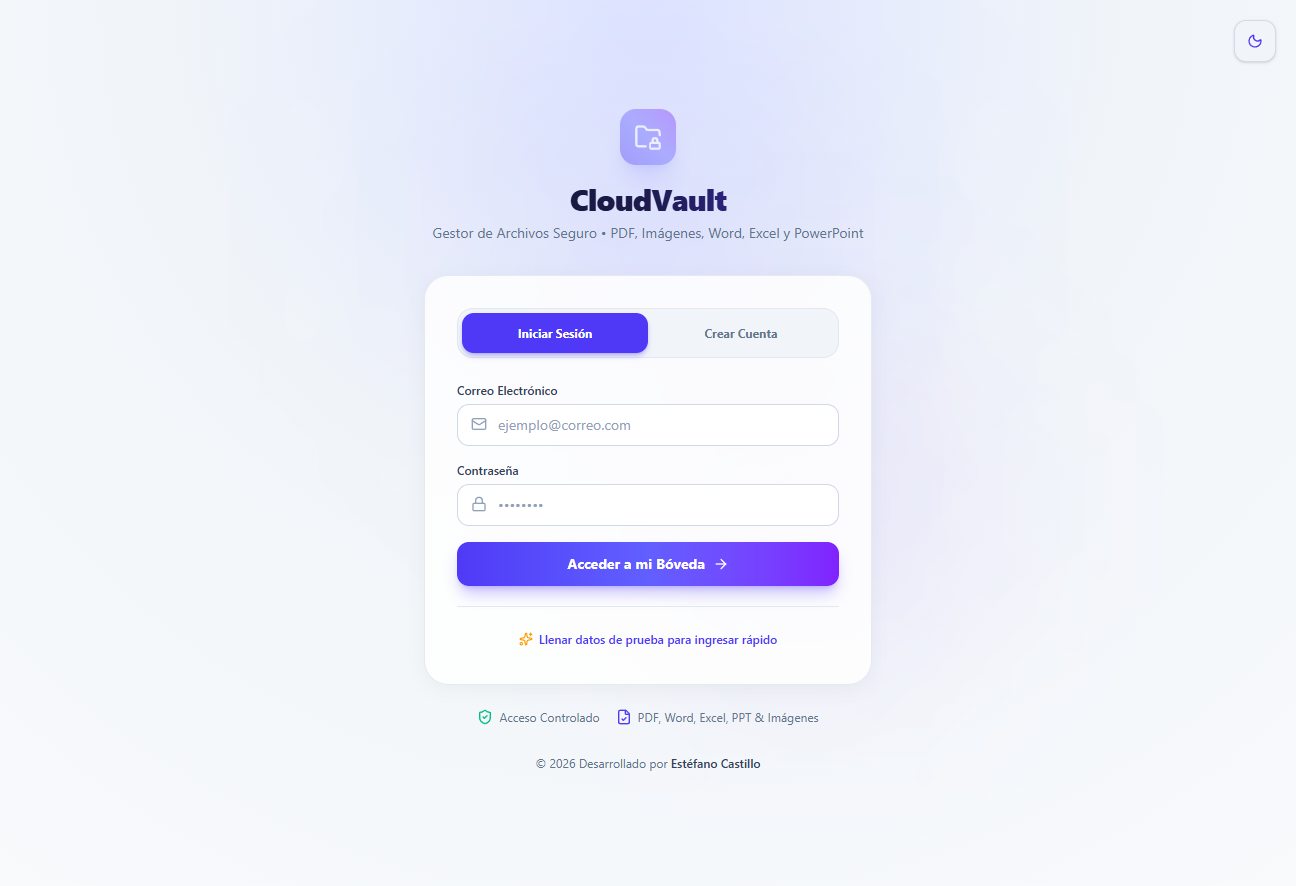
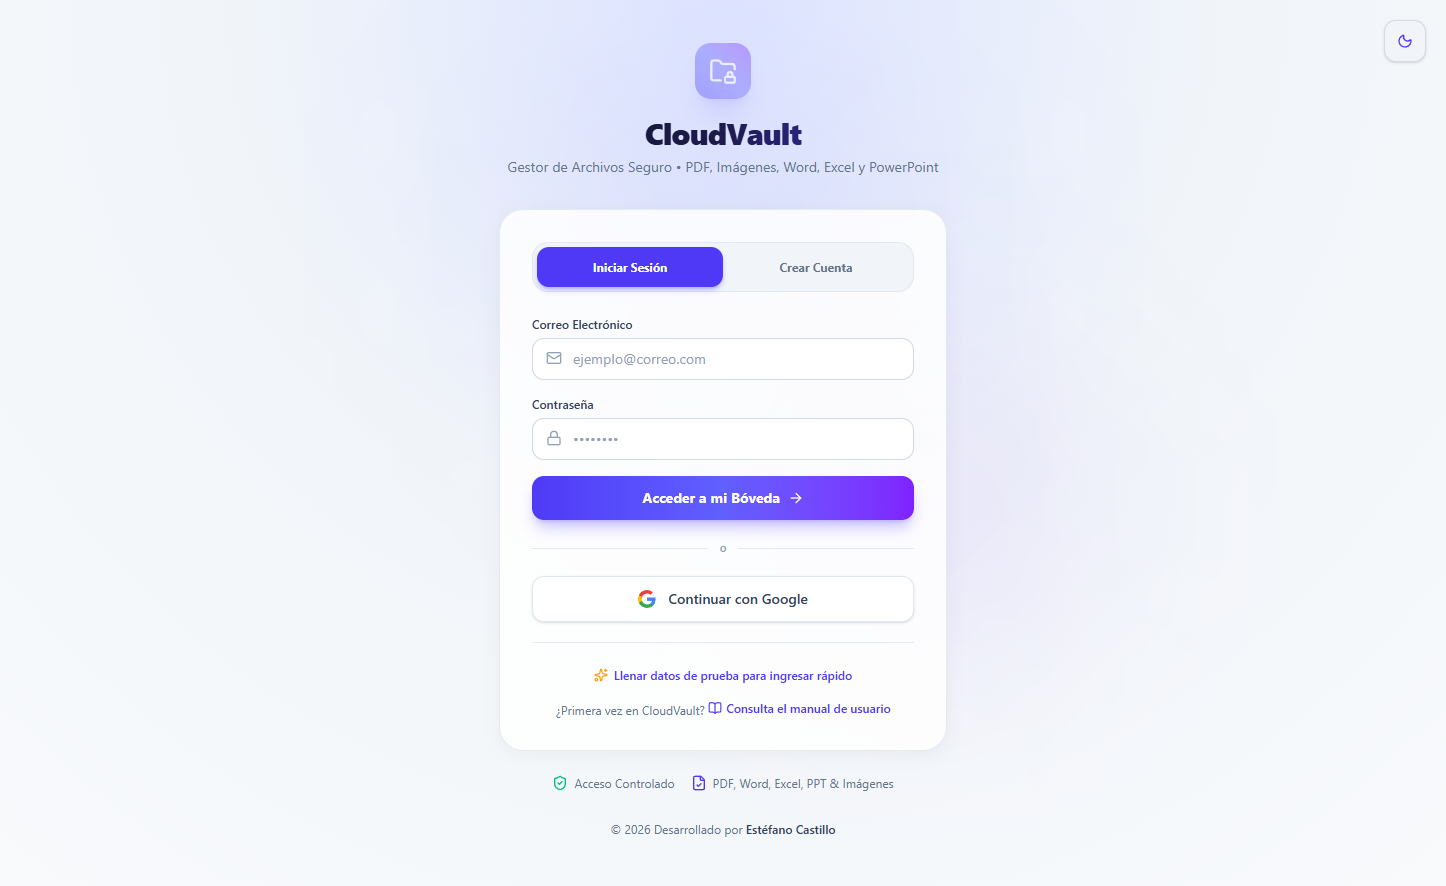
docs: actualizar el manual con el acceso con Google y los modos de acceso
Las capturas de acceso estaban tomadas antes de anadir el boton de Google, asi
que el manual describia un boton que no aparecia en ninguna imagen. Se
recapturan 01 y 02, y se anade 17 para el modo solo-Google, donde la pantalla
es completamente distinta: sin formulario y sin pestanas.

Los bloques del manual pueden marcarse con `when: "local"` o `when: "google"`
y la pagina los filtra segun el modo activo, para no documentar un boton que la
aplicacion no tiene.

Contenido nuevo:

- Que comparte Google: solo el nombre y el correo, nunca Drive ni contactos.
  Antes no se decia explicitamente.
- Que pasa si ya existia una cuenta creada con contrasena: se entra en ella con
  todos sus archivos, en lugar de crear una cuenta paralela.
- Que no se puede volver a entrar con contrasena una vez usada la via de Google.
  Es una decision que conviene que se tome con la informacion delante.
- Cinco filas en la tabla de problemas, que es donde se busca cuando algo
  falla: cuenta creada con Google, los dos mensajes de metodo deshabilitado,
  correo de Google sin verificar y la vuelta a la pantalla de acceso.
- El pie del manual menciona el metodo de acceso disponible, y solo cuando hay
  mas de uno.

diff --git a/src/lib/help-content.ts b/src/lib/help-content.ts
@@ -12,7 +12,15 @@ import {
   QUOTA_WARN_RATIO,
 } from "@/lib/file-utils";
 
-export type HelpBlock =
+/**
+ * `when` marca un bloque que solo aplica a un modo de acceso concreto
+ * ("local" o "google"). Se filtran en la pagina del manual para que no se
+ * documente un botón que la aplicación no tiene.
+ */
+export type HelpBlock = {
+  kind: "p" | "steps" | "list" | "table" | "callout" | "image";
+  when?: "local" | "google";
+} & (
   | { kind: "p"; text: string }
   | { kind: "steps"; items: string[] }
   | { kind: "list"; items: string[] }
@@ -23,7 +31,8 @@ export type HelpBlock =
       title: string;
       text: string;
     }
-  | { kind: "image"; src: string; alt: string; caption: string };
+  | { kind: "image"; src: string; alt: string; caption: string }
+);
 
 export interface HelpSection {
   id: string;
@@ -63,7 +72,13 @@ export const HELP_SECTIONS: HelpSection[] = [
         text: `CloudVault guarda tus archivos en un espacio privado. Solo tú puedes ver lo que subes: ninguna otra cuenta tiene acceso a tus documentos, ni siquiera alguien que conozca tu correo.`,
       },
       {
+        kind: "p",
+        when: "google",
+        text: "Con Google no hay que registrarse. **Tu cuenta se crea sola la primera vez que entras**: eliges una cuenta de Google y ya estás dentro. No hay formulario ni que recordar una contraseña.",
+      },
+      {
         kind: "steps",
+        when: "local",
         items: [
           "Abre la página de acceso y pulsa la pestaña **Crear Cuenta**.",
           "Escribe tu **Nombre Completo**, tu **Correo Electrónico** y una **Contraseña**.",
@@ -73,6 +88,7 @@ export const HELP_SECTIONS: HelpSection[] = [
       },
       {
         kind: "image",
+        when: "local",
         src: "/help/02-crear-cuenta.png",
         alt: "Formulario de creación de cuenta con los campos nombre, correo y contraseña",
         caption:
@@ -81,8 +97,16 @@ export const HELP_SECTIONS: HelpSection[] = [
       {
         kind: "callout",
         tone: "info",
+        when: "local",
         title: "Tu correo es tu usuario",
         text: "No se puede cambiar después. Si te registras con `nombre@correo.com` y luego entras con `NOMBRE@correo.com`, CloudVault lo reconoce como la misma cuenta (no distingue mayúsculas).",
+      },
+      {
+        kind: "callout",
+        tone: "info",
+        when: "google",
+        title: "Tu correo lo decide Google",
+        text: "CloudVault toma el correo de tu cuenta de Google. Si algún día lo cambias allí, entrando con Google se actualizará aquí también.",
       },
     ],
   },
@@ -94,13 +118,32 @@ export const HELP_SECTIONS: HelpSection[] = [
     blocks: [
       {
         kind: "p",
-        text: "Hay dos formas de entrar. Con **correo y contraseña**, escribiendo tus datos y pulsando **Acceder a mi Bóveda**. O con **cuenta de Google**, pulsando el botón «Continuar con Google» que aparece debajo.",
+        text: "CloudVault guarda tu sesión durante 7 días. Entra por la vía que tengas disponible:",
+      },
+      {
+        kind: "p",
+        when: "local",
+        text: "**Correo y contraseña.** Escribe tu correo y tu contraseña en el formulario y pulsa **Acceder a mi Bóveda**. Si no tienes cuenta, la pestaña **Crear Cuenta** te da acceso con el correo que quieras.",
+      },
+      {
+        kind: "p",
+        when: "google",
+        text: "**Cuenta de Google.** Pulsa «Continuar con Google», elige una cuenta y entras directamente. No necesitas contraseña de CloudVault.",
       },
       {
         kind: "image",
+        when: "local",
         src: "/help/01-iniciar-sesion.png",
         alt: "Pantalla de inicio de sesión de CloudVault",
         caption: "La pantalla de acceso. Tu sesión recuerda quién eres durante 7 días.",
+      },
+      {
+        kind: "image",
+        when: "google",
+        src: "/help/17-solo-google.png",
+        alt: "Pantalla de acceso de CloudVault reducida al botón de Google",
+        caption:
+          "Cuando la aplicación es solo de Google, la pantalla se queda únicamente con el botón: sin formulario y sin pestañas.",
       },
       {
         kind: "list",
@@ -113,20 +156,37 @@ export const HELP_SECTIONS: HelpSection[] = [
       {
         kind: "callout",
         tone: "info",
+        when: "google",
         title: "Entrar con Google",
-        text: "Al pulsar «Continuar con Google» eliges una cuenta de Google y entras directamente. Google solo te enseña el nombre y el correo, nunca tus archivos. Si ya tenías una cuenta en CloudVault con ese mismo correo, **entras en ella** con todos sus archivos y su espacio: no se crea una cuenta aparte.",
-      },
-      {
-        kind: "callout",
-        tone: "warning",
-        title: "Las cuentas de Google no tienen contraseña",
-        text: "Si entraste con Google, CloudVault no guarda ninguna contraseña tuya. Si en el formulario de acceso escribes el correo de una cuenta de Google con cualquier contraseña, CloudVault te avisará de que debes usar el botón de Google. Esa es la forma correcta de entrar.",
+        text: "Al pulsar «Continuar con Google» eliges una cuenta y entras directamente. **Google solo comparte tu nombre y tu correo**: nunca tus archivos de Drive, ni tus contactos, ni el contenido de tu correo. CloudVault pide lo mínimo para saber quién eres.",
       },
       {
         kind: "callout",
         tone: "info",
+        when: "google",
+        title: "Qué pasa si ya tenías una cuenta con contraseña",
+        text: "Si te habías registrado antes con ese mismo correo, **entras en esa cuenta**: verás tus archivos y tu espacio tal como los tenías. No se crea una cuenta nueva ni se duplica nada. Solo se enlaza tu acceso con Google a partir de ese momento.",
+      },
+      {
+        kind: "callout",
+        tone: "warning",
+        when: "google",
+        title: "Las cuentas de Google no tienen contraseña",
+        text: "CloudVault no guarda ninguna contraseña de las cuentas que entran con Google. Si en el formulario de acceso escribes el correo de una de esas cuentas con cualquier contraseña, CloudVault te avisará de que debes usar el botón de Google. Esa es la forma correcta de entrar, y no significa que tu cuenta esté dañada.",
+      },
+      {
+        kind: "callout",
+        tone: "warning",
+        when: "google",
+        title: "No se puede volver a entrar con contraseña",
+        text: "Una vez que entras con Google, esa cuenta queda ligada a Google. Si después quieres usar correo y contraseña en lugar de Google, **no hay forma de hacerlo desde la aplicación**: hay que pedírselo a quien administre la instalación. Tenlo en cuenta antes de elegir este método si crees que vas a cambiar de opinión.",
+      },
+      {
+        kind: "callout",
+        tone: "info",
+        when: "local",
         title: "¿Olvidaste tu contraseña?",
-        text: "CloudVault no envía correos ni permite recuperarlas desde la aplicación. Si no recuerdas la contraseña de una cuenta creada con correo, tendrás que registrar una cuenta nueva. Por eso conviene usar una que se te quede. Las cuentas de Google no tienen ese problema: puedes recuperarlas desde Google.",
+        text: "CloudVault no envía correos ni permite recuperarlas desde la aplicación. Si no recuerdas la contraseña de una cuenta creada con correo, tendrás que registrar una cuenta nueva. Por eso conviene usar una que se te quede.",
       },
     ],
   },
@@ -561,6 +621,31 @@ export const HELP_SECTIONS: HelpSection[] = [
             "Entra con tu contraseña, o usa otro correo.",
           ],
           [
+            "«Esta cuenta se creó con Google»",
+            "Entraste con Google, así que esa cuenta no tiene contraseña guardada.",
+            "Pulsa **Continuar con Google**. No hay que hacer nada más: la cuenta está intacta.",
+          ],
+          [
+            "«El acceso con contraseña está deshabilitado»",
+            "La aplicación está configurada para entrar solo con Google.",
+            "Pulsa **Continuar con Google**. Si tenías una cuenta creada con contraseña, necesita usar un correo de Google.",
+          ],
+          [
+            "«El inicio de sesión con Google está deshabilitado»",
+            "La aplicación está configurada para entrar solo con correo y contraseña.",
+            "Usa el formulario de acceso. Necesitas una cuenta creada previamente.",
+          ],
+          [
+            "Google dice que la cuenta no está verificada",
+            "Esa cuenta de Google aún no confirmó su correo.",
+            "Confirma el correo desde Google y vuelve a intentarlo.",
+          ],
+          [
+            "Volví a la pantalla de acceso sin querer",
+            "Google te devolvió aquí después de darte por identificada.",
+            "Vuelve a pulsar **Continuar con Google**: la cuenta ya existe y no se duplicará.",
+          ],
+          [
             "Aviso de conexión a la base de datos",
             "La conexión a MongoDB se interrumpió.",
             "Recarga la página. Si sigue, avisa a quien administer la instalación.",
@@ -576,4 +661,17 @@ export const HELP_SECTIONS: HelpSection[] = [
   },
 ];
 
-export const HELP_FOOTER_NOTE = `Este manual describe el comportamiento de CloudVault con una cuota de ${QUOTA_MB} MB por cuenta y un máximo de ${MAX_MB} MB por archivo.`;
+/**
+ * Nota al pie. Menciona el método de acceso solo cuando la aplicación ofrece
+ * más de uno, porque en modo único la persona que lee no tiene nada que elegir.
+ */
+export function buildFooterNote(localEnabled: boolean, googleEnabled: boolean) {
+  const acceso =
+    localEnabled && googleEnabled
+      ? " Puedes entrar con correo y contraseña o con tu cuenta de Google."
+      : googleEnabled
+        ? " El acceso es únicamente con cuenta de Google."
+        : " El acceso es únicamente con correo y contraseña.";
+
+  return `Este manual describe el comportamiento de CloudVault con una cuota de ${QUOTA_MB} MB por cuenta y un máximo de ${MAX_MB} MB por archivo.${acceso}`;
+}

diff --git a/src/app/help/page.tsx b/src/app/help/page.tsx
@@ -25,7 +25,12 @@ import {
 import ThemeToggle from "@/components/ThemeToggle";
 import Footer from "@/components/Footer";
 import HelpImage from "@/components/HelpImage";
-import { HELP_SECTIONS, HELP_FOOTER_NOTE, HelpBlock } from "@/lib/help-content";
+import { HELP_SECTIONS, buildFooterNote, HelpBlock } from "@/lib/help-content";
+import {
+  parseAuthMode,
+  AUTH_MODE_LOCAL_ONLY,
+  AUTH_MODE_GOOGLE_ONLY,
+} from "@/lib/auth-config";
 
 const ICONS: Record<string, React.ComponentType<{ className?: string }>> = {
   UserPlus,
@@ -194,6 +199,19 @@ function Block({ block }: { block: HelpBlock }) {
 export default function HelpPage() {
   const [activeId, setActiveId] = useState(HELP_SECTIONS[0].id);
 
+  // El manual se adapta al modo de acceso: si Google está deshabilitado no
+  // tiene sentido documentar un botón que no existe, y al revés.
+  const mode = parseAuthMode(process.env.NEXT_PUBLIC_AUTH_MODE);
+  const localEnabled = mode === AUTH_MODE_LOCAL_ONLY || mode === 2;
+  const googleEnabled = mode === AUTH_MODE_GOOGLE_ONLY || mode === 2;
+
+  const visibleBlocks = (blocks: HelpBlock[]) =>
+    blocks.filter((block) => {
+      if (block.when === "local") return localEnabled;
+      if (block.when === "google") return googleEnabled;
+      return true;
+    });
+
   // Scroll-spy: resalta en el indice la seccion que se esta leyendo.
   useEffect(() => {
     const observer = new IntersectionObserver(
@@ -340,7 +358,7 @@ export default function HelpPage() {
                     </div>
 
                     <div className="space-y-4">
-                      {section.blocks.map((block, i) => (
+                      {visibleBlocks(section.blocks).map((block, i) => (
                         <Block key={i} block={block} />
                       ))}
                     </div>
@@ -350,7 +368,7 @@ export default function HelpPage() {
             })}
 
             <p className="mt-6 text-xs text-slate-400 dark:text-slate-500 text-center px-4">
-              {HELP_FOOTER_NOTE}
+              {buildFooterNote(localEnabled, googleEnabled)}
             </p>
           </div>
         </div>
